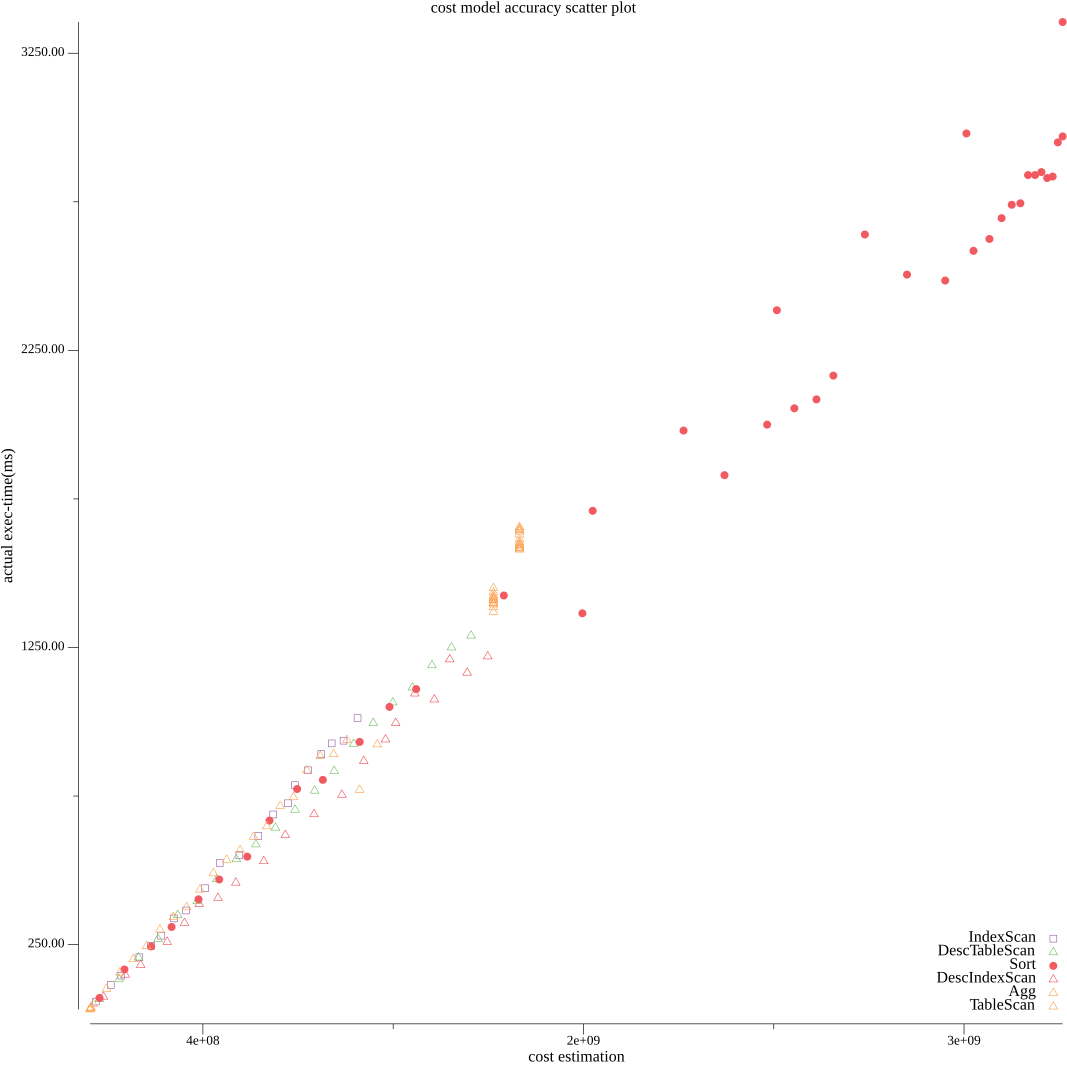
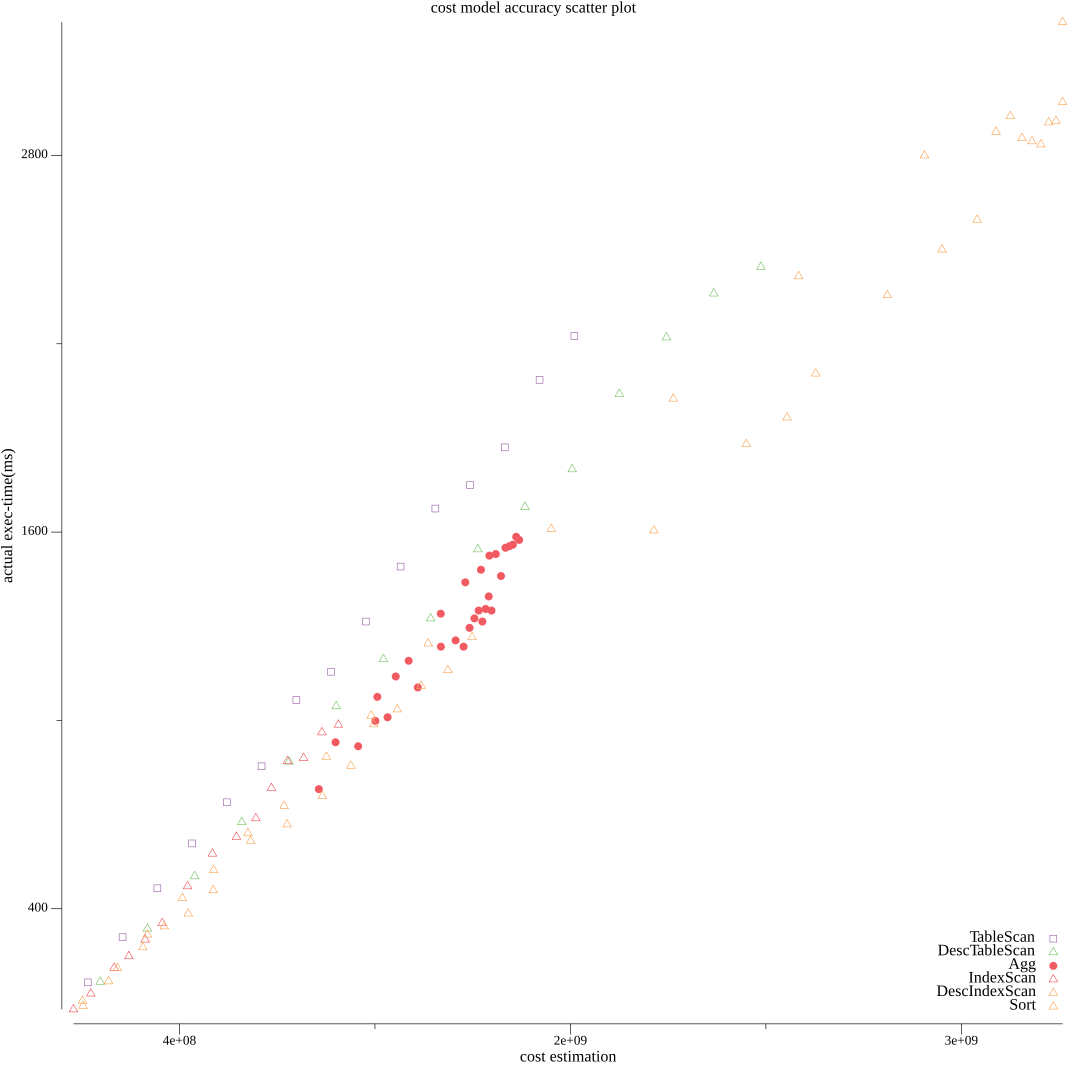
fixup

diff --git a/cost/costeval.go b/cost/costeval.go
@@ -27,12 +27,12 @@ func CostEval() {
 	}
 
 	opts := []*evalOpt{
-		{"imdb", "imdb", "original", 20, 2},
-		{"imdb", "imdb", "calibrated", 20, 2},
-		//{"tpch1g", "tpch", "original", 20, 2},
-		//{"tpch1g", "tpch", "calibrated", 20, 2},
-		//{"synthetic", "synthetic", "original", 20, 2},
-		//{"synthetic", "synthetic", "calibrated", 20, 2},
+		//{"imdb", "imdb", "original", 15, 2},
+		//{"imdb", "imdb", "calibrated", 15, 2},
+		//{"tpch1g", "tpch", "original", 15, 2},
+		//{"tpch1g", "tpch", "calibrated", 15, 2},
+		{"synthetic", "synthetic", "original", 15, 2},
+		{"synthetic", "synthetic", "calibrated", 15, 2},
 	}
 
 	for _, opt := range opts {

diff --git a/cost/eval_synthetic.go b/cost/eval_synthetic.go
@@ -133,11 +133,11 @@ func genSyntheticEvaluationAggQueries(ins tidb.Instance, n int) (qs Queries) {
 		l, r := randRange(minB, maxB, i, n, 0)
 		qs = append(qs, Query{
 			SQL:   fmt.Sprintf(`select /*+ use_index(t, b), stream_agg(), agg_to_cop() */ count(1) from t where b>=%v and b<=%v`, l, r),
-			Label: "AggPushedDown",
+			Label: "Agg",
 		})
 		qs = append(qs, Query{
 			SQL:   fmt.Sprintf(`select /*+ use_index(t, b), stream_agg(), agg_not_to_cop() */ count(1) from t where b>=%v and b<=%v`, l, r),
-			Label: "AggNotPushedDown",
+			Label: "Agg",
 		})
 	}
 	return qs
